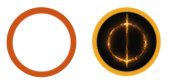
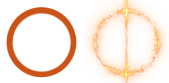
Add files via upload

diff --git a/bort2/bort2.css b/bort2/bort2.css
@@ -7,8 +7,12 @@
         margin-top: -285px;*/
 }
 
-.xbox.disconnected div {
-    display: none;
+.xbox.disconnected {
+    background: url(disconnectedmod.png);
+    height: 630px;
+    width: 750px;
+    /*    margin-left: -375px;
+        margin-top: -285px;*/
 }
 
 .xbox .triggers {
